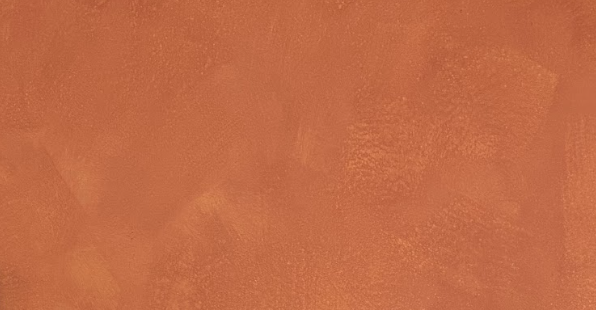
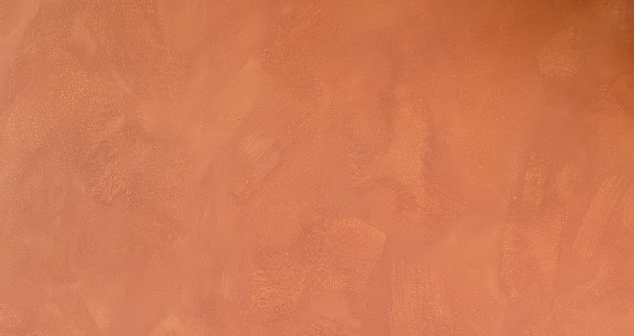
Fill hero to full viewport, lighten overlay, add sizzling smoke effect
- Hero now fills 100vh so the curtain section stays hidden until scroll
- Lowered hero's dark tint so the leather sofa photo actually reads
- Fixed curtain reveal progress math so it opens on scroll instead of staying shut
- Added animated smoke wisps rising from the HUNGER headline
- Updated orange wall photo

diff --git a/index.html b/index.html
@@ -47,7 +47,7 @@
     letter-spacing:0.18em;
     font-weight:700;
   }
-  :focus-visible{ outline:3px solid var(--pink); outline-offset:3px; }
+  :focus-visible{ outline:3px solid var(--ink); outline-offset:3px; }
 
   /* fixed full-page photo background, sits behind every section */
   .bg-photo{
@@ -74,7 +74,7 @@
     position:relative;
     background:
       radial-gradient(ellipse at 20% 15%, rgba(226,62,130,0.16), transparent 55%),
-      rgba(31,43,26,0.45);
+      rgba(31,43,26,0.12);
     color:var(--paper-light);
     padding:96px 0;
     min-height:100vh;
@@ -84,19 +84,46 @@
   }
   .hero .wrap{ width:100%; }
   .hero h1{
+    position:relative;
     font-size:clamp(4.4rem, 16vw, 11.5rem);
     line-height:0.86;
     color:var(--marigold);
-    text-shadow:6px 6px 0 var(--pink);
+    text-shadow:6px 6px 0 var(--ink);
     margin:0;
     word-break:break-word;
+  }
+  .smoke{
+    position:absolute; left:0; right:0; bottom:82%; height:0;
+    pointer-events:none;
+  }
+  .smoke span{
+    position:absolute;
+    bottom:0;
+    width:22px; height:22px;
+    background:radial-gradient(circle, rgba(251,246,234,0.6), rgba(251,246,234,0) 72%);
+    border-radius:50%;
+    filter:blur(4px);
+    opacity:0;
+    animation:smoke-rise 4.2s ease-in infinite;
+  }
+  .smoke span:nth-child(1){ left:6%;  width:18px; height:18px; animation-delay:0s;    animation-duration:3.8s; }
+  .smoke span:nth-child(2){ left:22%; width:26px; height:26px; animation-delay:0.9s;  animation-duration:4.6s; }
+  .smoke span:nth-child(3){ left:40%; width:16px; height:16px; animation-delay:1.8s;  animation-duration:3.6s; }
+  .smoke span:nth-child(4){ left:58%; width:24px; height:24px; animation-delay:0.4s;  animation-duration:4.4s; }
+  .smoke span:nth-child(5){ left:75%; width:20px; height:20px; animation-delay:2.3s;  animation-duration:4s;   }
+  .smoke span:nth-child(6){ left:90%; width:15px; height:15px; animation-delay:1.3s;  animation-duration:3.9s; }
+  @keyframes smoke-rise{
+    0%{ transform:translate(0,0) scale(0.6); opacity:0; }
+    12%{ opacity:0.55; }
+    50%{ transform:translate(8px,-55px) scale(1.15); opacity:0.32; }
+    100%{ transform:translate(-14px,-125px) scale(1.9); opacity:0; }
   }
   .hero-content{ display:grid; grid-template-columns:1.3fr 1fr; gap:48px; align-items:center; }
   .hero-right{ display:flex; justify-content:center; }
   .hero-right img{
     width:100%; max-width:380px; aspect-ratio:1/1; object-fit:cover;
     border-radius:50%; border:3px solid var(--marigold);
-    box-shadow:10px 10px 0 var(--pink);
+    box-shadow:10px 10px 0 var(--ink);
   }
   @media (max-width:860px){
     .hero-content{ grid-template-columns:1fr; }
@@ -111,7 +138,7 @@
   .curtain-image img{ width:100%; height:100%; object-fit:cover; }
   .curtain-panel{
     position:absolute; top:0; bottom:0; width:50%;
-    background:var(--forest);
+    background:var(--ink);
     will-change:transform;
   }
   .curtain-left{ left:0; border-right:4px solid var(--marigold); }
@@ -256,7 +283,7 @@
 <section class="hero" id="top">
   <div class="wrap hero-content">
     <div class="hero-left">
-      <h1>HUNGER</h1>
+      <h1>HUNGER<span class="smoke" aria-hidden="true"><span></span><span></span><span></span><span></span><span></span><span></span></span></h1>
     </div>
     <div class="hero-right">
       <img src="circlePicHungerWeb.png" alt="HUNGER podcast" width="380" height="380">
